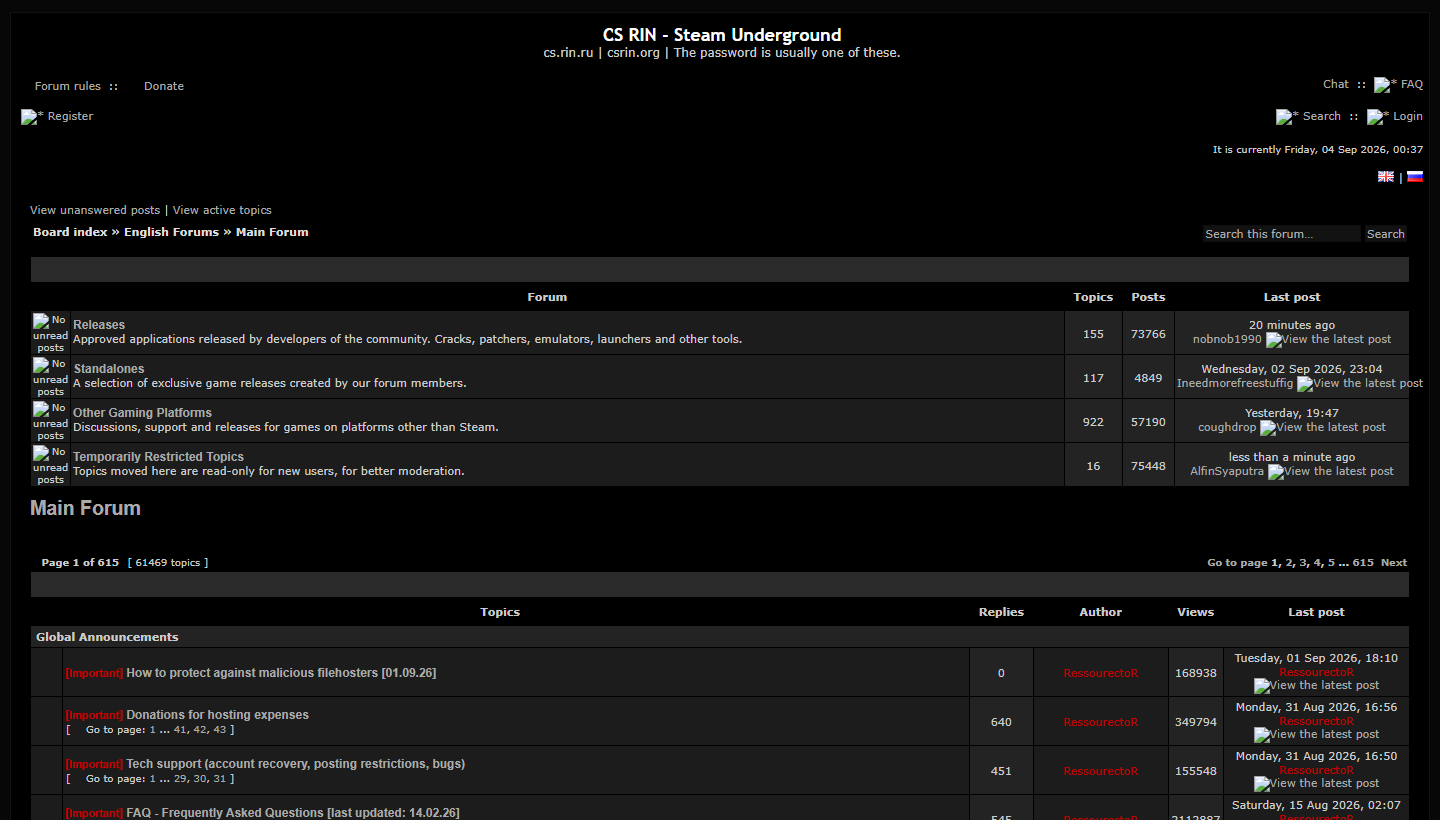
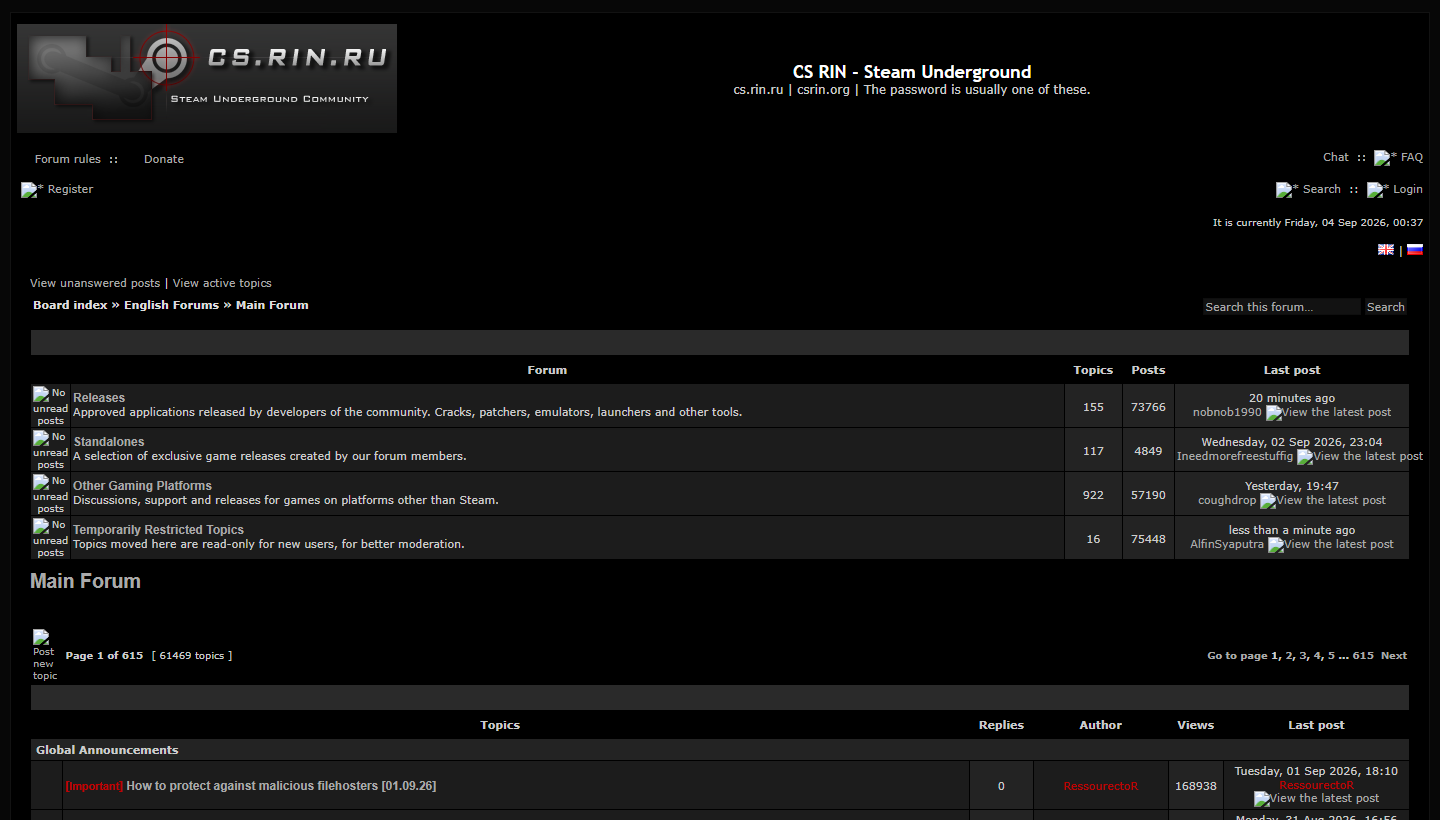
0.8.2 — the sweep at other widths and settings, and four interaction probes
The fifty-page sweep now runs at any width and with any settings, and
was run three more ways: at 390px, on the light theme, and with the
folding features that ship switched off turned on. All three clean,
once the sweep stopped counting the breadcrumb's deliberate ellipsis as
clipped text.

Then four probes that act rather than read, on the live board: sixty
Tab stops through a topic (none landing on anything invisible, the skip
link first), Ctrl+K on a listing, every one of the fifty-four settings
flipped off and on in place, and the releases panel read whole on real
topics of different shapes. Two things came out:

  - a submit button had no focus indicator. The rule that swaps the
    ring for an accent border on a focused field matched `input` as a
    whole, and a submit button is an input with no border to colour.
    Buttons keep the ring now.
  - a multi-page topic whose first page carried no release had no panel
    at all — the shape a request thread takes once the request is
    answered, and the panel is the only route to the page that answered
    it. It is offered on every page of a topic with more than one. A one
    page topic with nothing on it still gets none; there, "nothing here
    reads as a release" is the whole answer.

140 behavioural checks, the rendering matrix, the contrast audit and the
live pass are green.

diff --git a/test/sweep.js b/test/sweep.js
@@ -39,6 +39,16 @@ const arg = (name, fallback) => {
 };
 const WANT = Number(arg("pages", 50));
 const SAVE = process.argv.includes("--save");
+/* The same questions at another width, or with the script set up
+   differently. A phone is a different layout entirely and the light
+   theme is a different palette; the features that ship switched off
+   have only ever been exercised on fixtures.
+
+       node test/sweep.js --width 390
+       node test/sweep.js --settings '{"theme":"paper"}'
+       node test/sweep.js --settings '{"quietPosts":true,"foldQuotesLines":3}' */
+const WIDTH = Number(arg("width", 1440));
+const SETTINGS = arg("settings", null);
 
 /* The board's English forums, off its own index, and the Russian
    general one so a page in the other language is in the sweep. */
@@ -145,7 +155,7 @@ function askThePage(COLOUR_CODE) {
 
     /* 11. The action bar has become a stack. */
     const bar = document.querySelector(".rr-topicbar[data-rr-rows]");
-    if (bar && bar.getBoundingClientRect().height > 130) {
+    if (bar && bar.getBoundingClientRect().height > (window.innerWidth < 700 ? 220 : 130)) {
         note("tall-bar", "topic bar is " + Math.round(bar.getBoundingClientRect().height) + "px tall");
     }
 
@@ -194,7 +204,9 @@ function askThePage(COLOUR_CODE) {
     }
 
     /* 16. Text clipped inside a nowrap box this script made. */
-    for (const node of document.querySelectorAll(".rr-posthead__meta, .rr-posthead__rank, .rr-releases__who, .rr-nav__crumbs a")) {
+    /* Not the breadcrumb: its last link is the page title and is
+       ellipsised on purpose, which on a phone is every page. */
+    for (const node of document.querySelectorAll(".rr-posthead__meta, .rr-posthead__rank, .rr-releases__who")) {
         if (visible(node) && node.scrollWidth - node.clientWidth > 2) {
             note("clipped", node.className + " clips " + JSON.stringify(node.textContent.trim().slice(0, 40)));
         }
@@ -247,7 +259,15 @@ async function main() {
     const bundle = fs.readFileSync(path.join(__dirname, "..", "dist", "rin-reforged.user.js"), "utf8");
     const browser = await chromium.launch(
         process.env.RR_CHROME ? { executablePath: process.env.RR_CHROME } : {});
-    const context = await browser.newContext({ viewport: { width: 1440, height: 900 } });
+    const context = await browser.newContext({
+        viewport: { width: WIDTH, height: WIDTH < 700 ? 844 : 900 },
+    });
+    if (SETTINGS) {
+        JSON.parse(SETTINGS);                                  // fail here, not in the page
+        await context.addInitScript((value) => {
+            try { localStorage.setItem("rr:settings", value); } catch { /* private mode */ }
+        }, SETTINGS);
+    }
     await context.addInitScript(bundle);
     if (SAVE) fs.mkdirSync(OUT, { recursive: true });
 
@@ -353,7 +373,7 @@ async function main() {
     await browser.close();
 
     /* The report: what was seen, how often, and where. */
-    console.log("\n" + opened + " pages opened");
+    console.log("\n" + opened + " pages opened at " + WIDTH + "px" + (SETTINGS ? " with " + SETTINGS : ""));
     const kinds = Array.from(tally.entries()).sort((a, b) => b[1] - a[1]);
     if (!kinds.length) { console.log("nothing to report"); return; }
 

diff --git a/test/features.js b/test/features.js
@@ -1349,6 +1349,62 @@ const CHECKS = [
         },
     },
 
+    {
+        name: "releases: a page with nothing on it still offers the rest of the topic",
+        url: "/forum/thread/viewtopic.php?f=14&t=920000&start=6",
+        run: () => {
+            /* Page two of the five page thread is chatter with one
+               release; whichever page of a multi-page topic has no
+               release of its own, the panel must still be there,
+               because it is the only route to the pages that do. Four
+               request threads in a row on the live board had no panel
+               at all. */
+            const panel = document.querySelector(".rr-releases");
+            if (!panel) return "no panel on a page of a five page topic";
+            const whole = Array.from(panel.querySelectorAll(".rr-releases__tab"))
+                .find((n) => /All \d+ pages/.test(n.textContent));
+            if (!whole) return "the whole-topic control is missing";
+            return whole.disabled ? "the whole-topic control is disabled" : null;
+        },
+    },
+    {
+        name: "releases: a one page topic with nothing on it gets no panel",
+        url: SINGLE,
+        settings: { finder: true },
+        run: () => {
+            // SINGLE has two releases; the assertion is about the rule,
+            // so strip them and re-ask: with no rows and one page there
+            // must be nothing to say.
+            const rows = document.querySelectorAll(".rr-releases__row").length;
+            return rows > 0 ? null : (document.querySelector(".rr-releases") ? "an empty panel on a one page topic" : null);
+        },
+    },
+    {
+        name: "focus: a submit button keeps its ring",
+        url: TOPIC,
+        fresh: true,
+        run: () => {
+            const go = document.querySelector(".rr-search__go");
+            if (!go) return "no submit button in the topic search";
+            go.focus();
+            // Programmatic focus does not set :focus-visible in every
+            // engine; read the rule rather than the state.
+            const rules = [];
+            for (const sheet of document.styleSheets) {
+                let list; try { list = Array.from(sheet.cssRules); } catch { continue; }
+                for (const r of list) {
+                    if (!r.selectorText || !/outline/.test(r.style.cssText)) continue;
+                    for (const sel of r.selectorText.split(",")) {
+                        const one = sel.trim().replace(/:focus(-visible|-within)?/g, "");
+                        try { if (go.matches(one)) rules.push({ sel: sel.trim(), outline: r.style.outline || r.style.outlineStyle }); } catch { /* */ }
+                    }
+                }
+            }
+            const killer = rules.find((r) => /:focus/.test(r.sel) && !/focus-visible/.test(r.sel) && /none/.test(r.outline));
+            return killer ? "a rule strips the ring from this button: " + killer.sel.slice(0, 60) : null;
+        },
+    },
+
     /* ---- The releases panel ---------------------------------------- */
     {
         name: "releases: both scopes are offered on a one page topic too",

diff --git a/dist/rin-reforged.user.js b/dist/rin-reforged.user.js
@@ -2,7 +2,7 @@
 // @name            RIN Reforged
 // @name:fr         RIN Reforged
 // @namespace       https://github.com/Shirowwww/rin-reforged
-// @version         0.8.1
+// @version         0.8.2
 // @description     A full redesign of CS.RIN.RU: modern themes, real mobile support, game info cards, command palette, keyboard navigation and a settings panel.
 // @description:fr  Refonte complete de CS.RIN.RU : themes modernes, support mobile, fiches de jeu, palette de commandes, navigation clavier et panneau de reglages.
 // @author          Shirowwww
@@ -927,7 +927,12 @@ html[data-rr] textarea.post { font-family: var(--rr-font); line-height: var(--rr
 html[data-rr] input:hover,
 html[data-rr] select:hover,
 html[data-rr] textarea:hover { border-color: var(--rr-faint); }
-html[data-rr] input:focus,
+/* A field shows focus by colouring its own border, so the ring is not
+   drawn twice. Only a field: a submit button matches \`input\` too, has
+   no border to colour, and was left with no focus indicator at all —
+   which a Tab through a live topic page found on the board's own
+   Search button. Buttons keep the ring the rule above gives them. */
+html[data-rr] input:not([type="submit"]):not([type="button"]):not([type="reset"]):not([type="image"]):focus,
 html[data-rr] select:focus,
 html[data-rr] textarea:focus { border-color: var(--rr-accent); outline: none; }
 html[data-rr] ::placeholder { color: var(--rr-faint); }
@@ -9163,7 +9168,17 @@ function initReleases() {
     const canWalk = Boolean(settings.get("topicIndex"));
     const multi = total > 1;
     const kept = canWalk && PAGE.topicId ? cachedIndex(PAGE.topicId) : null;
-    if (!pageRows.length && !kept) return;
+
+    /* When there is nothing to show.
+
+       A one page topic with no release on it gets no panel: "nothing
+       here reads as a release" is the whole answer and a card saying so
+       is noise. A topic with more pages is different — the panel is the
+       only way to read the rest of it, and the page in front of you
+       being chatter says nothing about page three. That is exactly the
+       shape a request thread has when the request gets answered, and
+       four of them in a row on the live board had no panel at all. */
+    if (!pageRows.length && !kept && !(canWalk && multi)) return;
 
     /* Has the topic moved on since the index was taken?
      *
@@ -11197,7 +11212,7 @@ function initChrome() {
    not a blank page.
    ------------------------------------------------------------------ */
 
-const RR_VERSION = "0.8.1";
+const RR_VERSION = "0.8.2";
 
 function injectStyles() {
     const host = document.head || document.documentElement;

diff --git a/src/modules/releases.js b/src/modules/releases.js
@@ -879,7 +879,17 @@ function initReleases() {
     const canWalk = Boolean(settings.get("topicIndex"));
     const multi = total > 1;
     const kept = canWalk && PAGE.topicId ? cachedIndex(PAGE.topicId) : null;
-    if (!pageRows.length && !kept) return;
+
+    /* When there is nothing to show.
+
+       A one page topic with no release on it gets no panel: "nothing
+       here reads as a release" is the whole answer and a card saying so
+       is noise. A topic with more pages is different — the panel is the
+       only way to read the rest of it, and the page in front of you
+       being chatter says nothing about page three. That is exactly the
+       shape a request thread has when the request gets answered, and
+       four of them in a row on the live board had no panel at all. */
+    if (!pageRows.length && !kept && !(canWalk && multi)) return;
 
     /* Has the topic moved on since the index was taken?
      *

diff --git a/src/styles/forum.css b/src/styles/forum.css
@@ -580,7 +580,12 @@ html[data-rr] textarea.post { font-family: var(--rr-font); line-height: var(--rr
 html[data-rr] input:hover,
 html[data-rr] select:hover,
 html[data-rr] textarea:hover { border-color: var(--rr-faint); }
-html[data-rr] input:focus,
+/* A field shows focus by colouring its own border, so the ring is not
+   drawn twice. Only a field: a submit button matches `input` too, has
+   no border to colour, and was left with no focus indicator at all —
+   which a Tab through a live topic page found on the board's own
+   Search button. Buttons keep the ring the rule above gives them. */
+html[data-rr] input:not([type="submit"]):not([type="button"]):not([type="reset"]):not([type="image"]):focus,
 html[data-rr] select:focus,
 html[data-rr] textarea:focus { border-color: var(--rr-accent); outline: none; }
 html[data-rr] ::placeholder { color: var(--rr-faint); }

diff --git a/docs/DESIGN.md b/docs/DESIGN.md
@@ -499,6 +499,28 @@ behind a span — and three false positives, which were fixed in the
 sweep. It is paced at one page every two seconds because the board
 queues clients that ask faster; see the note on rate limiting above.
 
+The same sweep runs at any width and with any settings — `--width 390`,
+`--settings '{"theme":"paper"}'`, `--settings '{"quietPosts":true,
+"foldQuotesLines":3}'` — because a phone is a different layout, the
+light theme is a different palette, and the features that ship switched
+off had only ever been exercised on fixtures. All three came back
+clean, once the sweep stopped counting the breadcrumb's deliberate
+ellipsis as clipped text.
+
+Four interaction probes went further than reading: Tab through a live
+topic (sixty stops, none on anything invisible, the skip link first),
+Ctrl+K on a live listing, every one of the fifty-four settings flipped
+off and on in place on a live page, and the releases panel read whole
+on real topics of different shapes. Two things came out of them. A
+submit button had no focus indicator: the rule that swaps the ring for
+an accent border on a focused field matched `input` as a whole, and a
+submit button is an input with no border to colour. And a multi-page
+topic whose first page carried no release had no panel at all — which
+is the shape a request thread takes once the request is answered, and
+the panel is the only route to the page that answered it. A one page
+topic with nothing on it still gets none: there, "nothing here reads as
+a release" is the whole answer.
+
 `live.js` runs the built bundle against cs.rin.ru with `addInitScript`, which
 executes it at document-start the way a userscript manager does. It is
 read-only: it opens pages, reads the DOM and closes. It has already earned its
